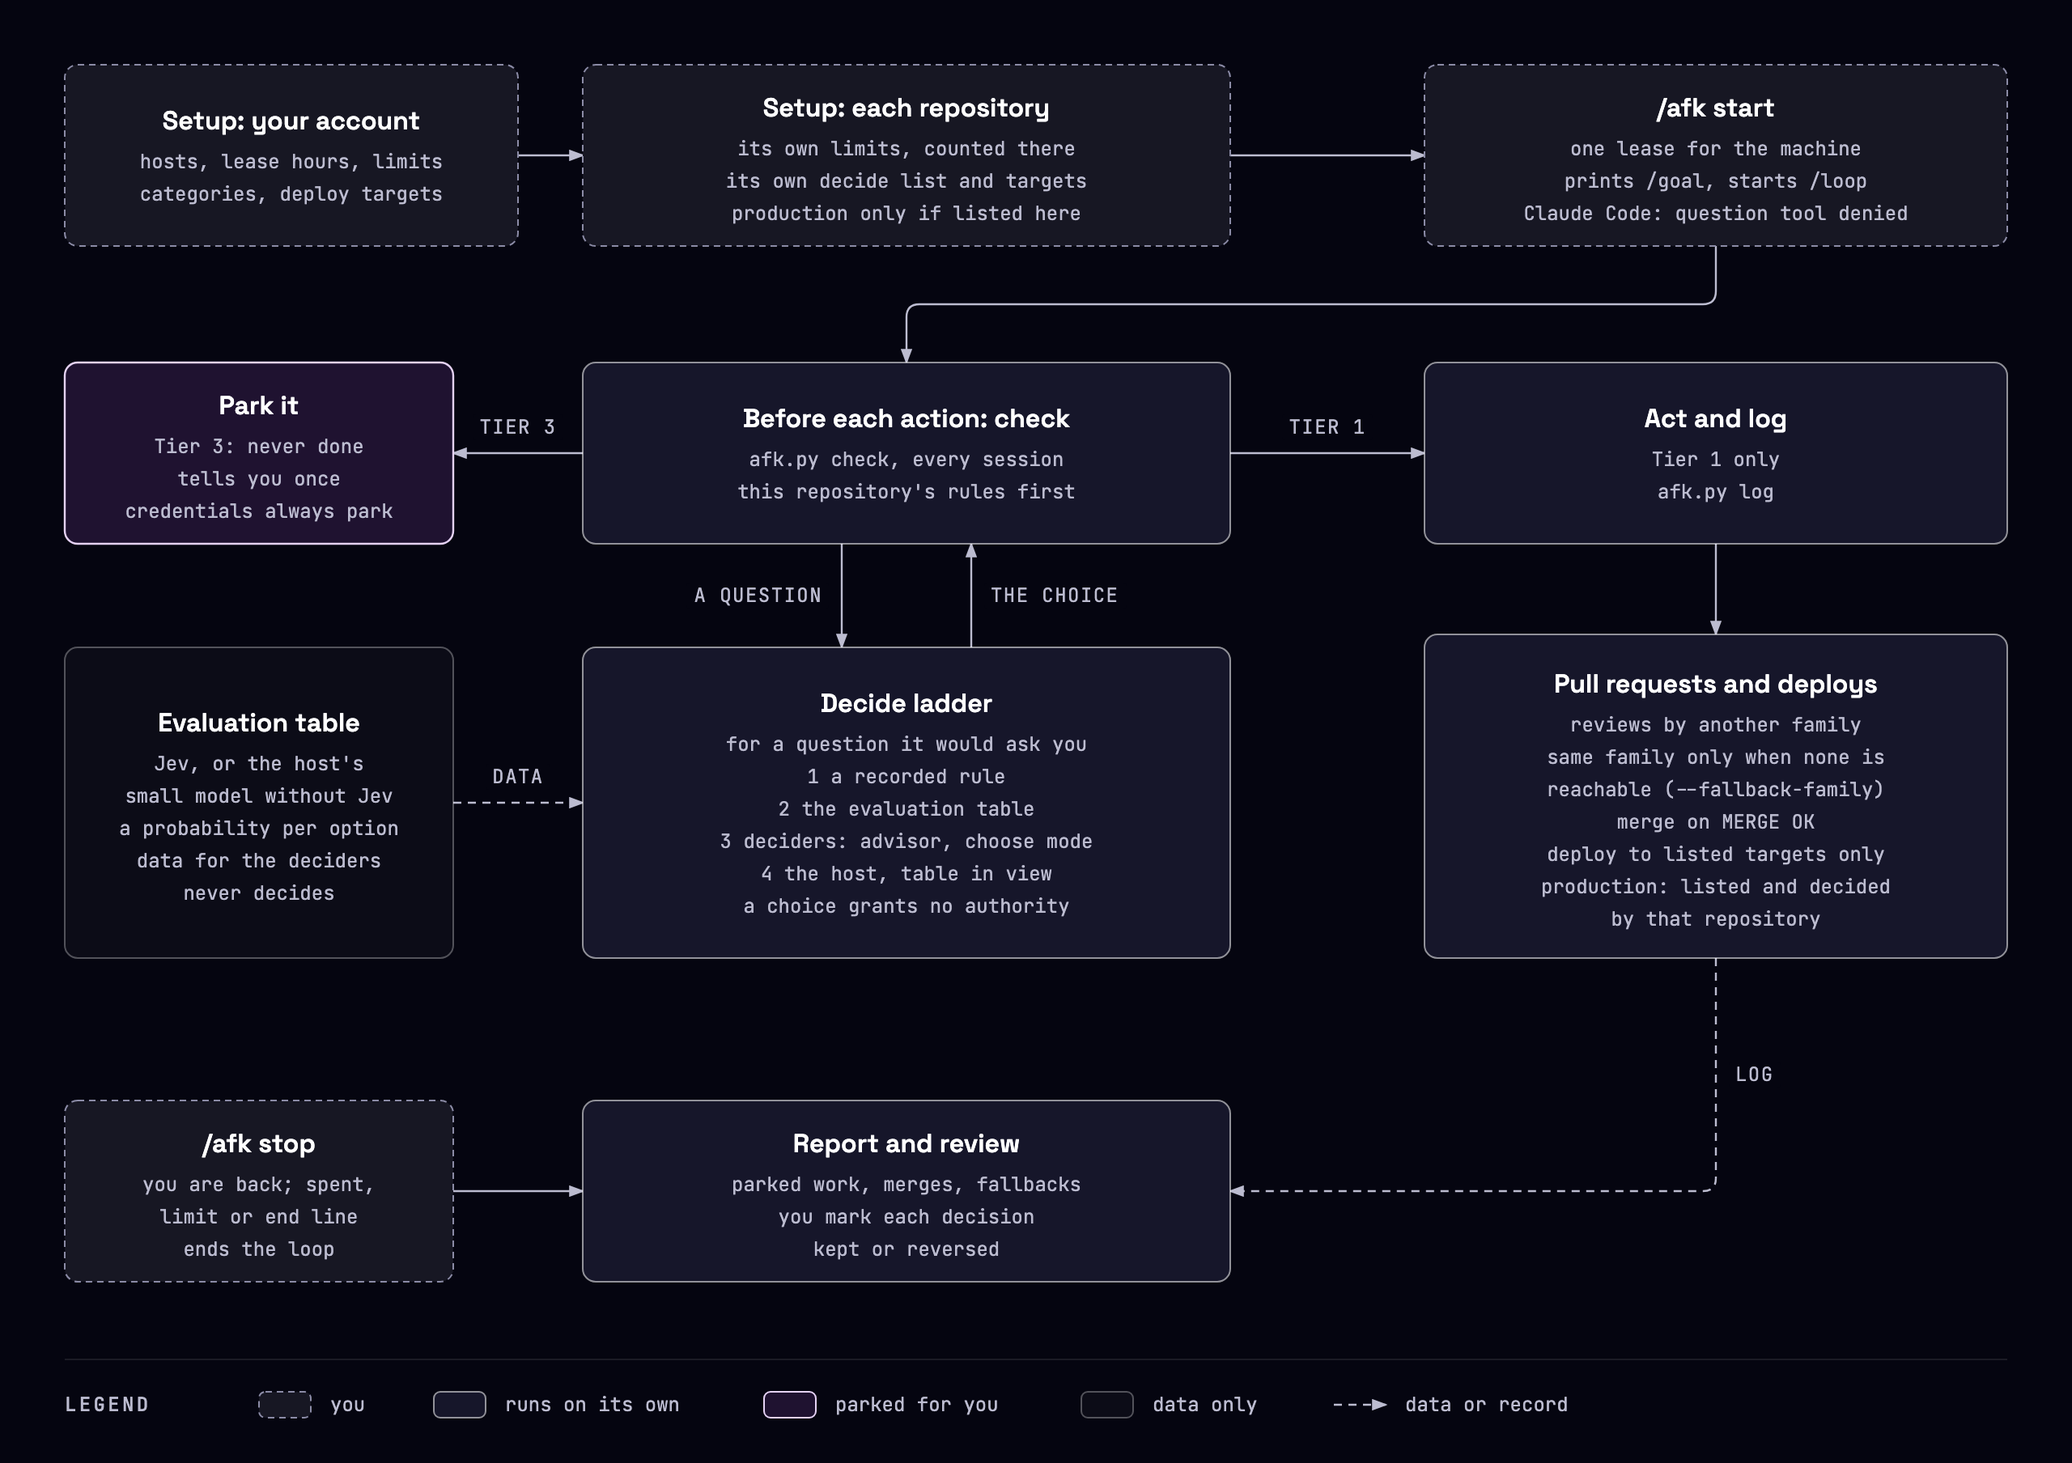
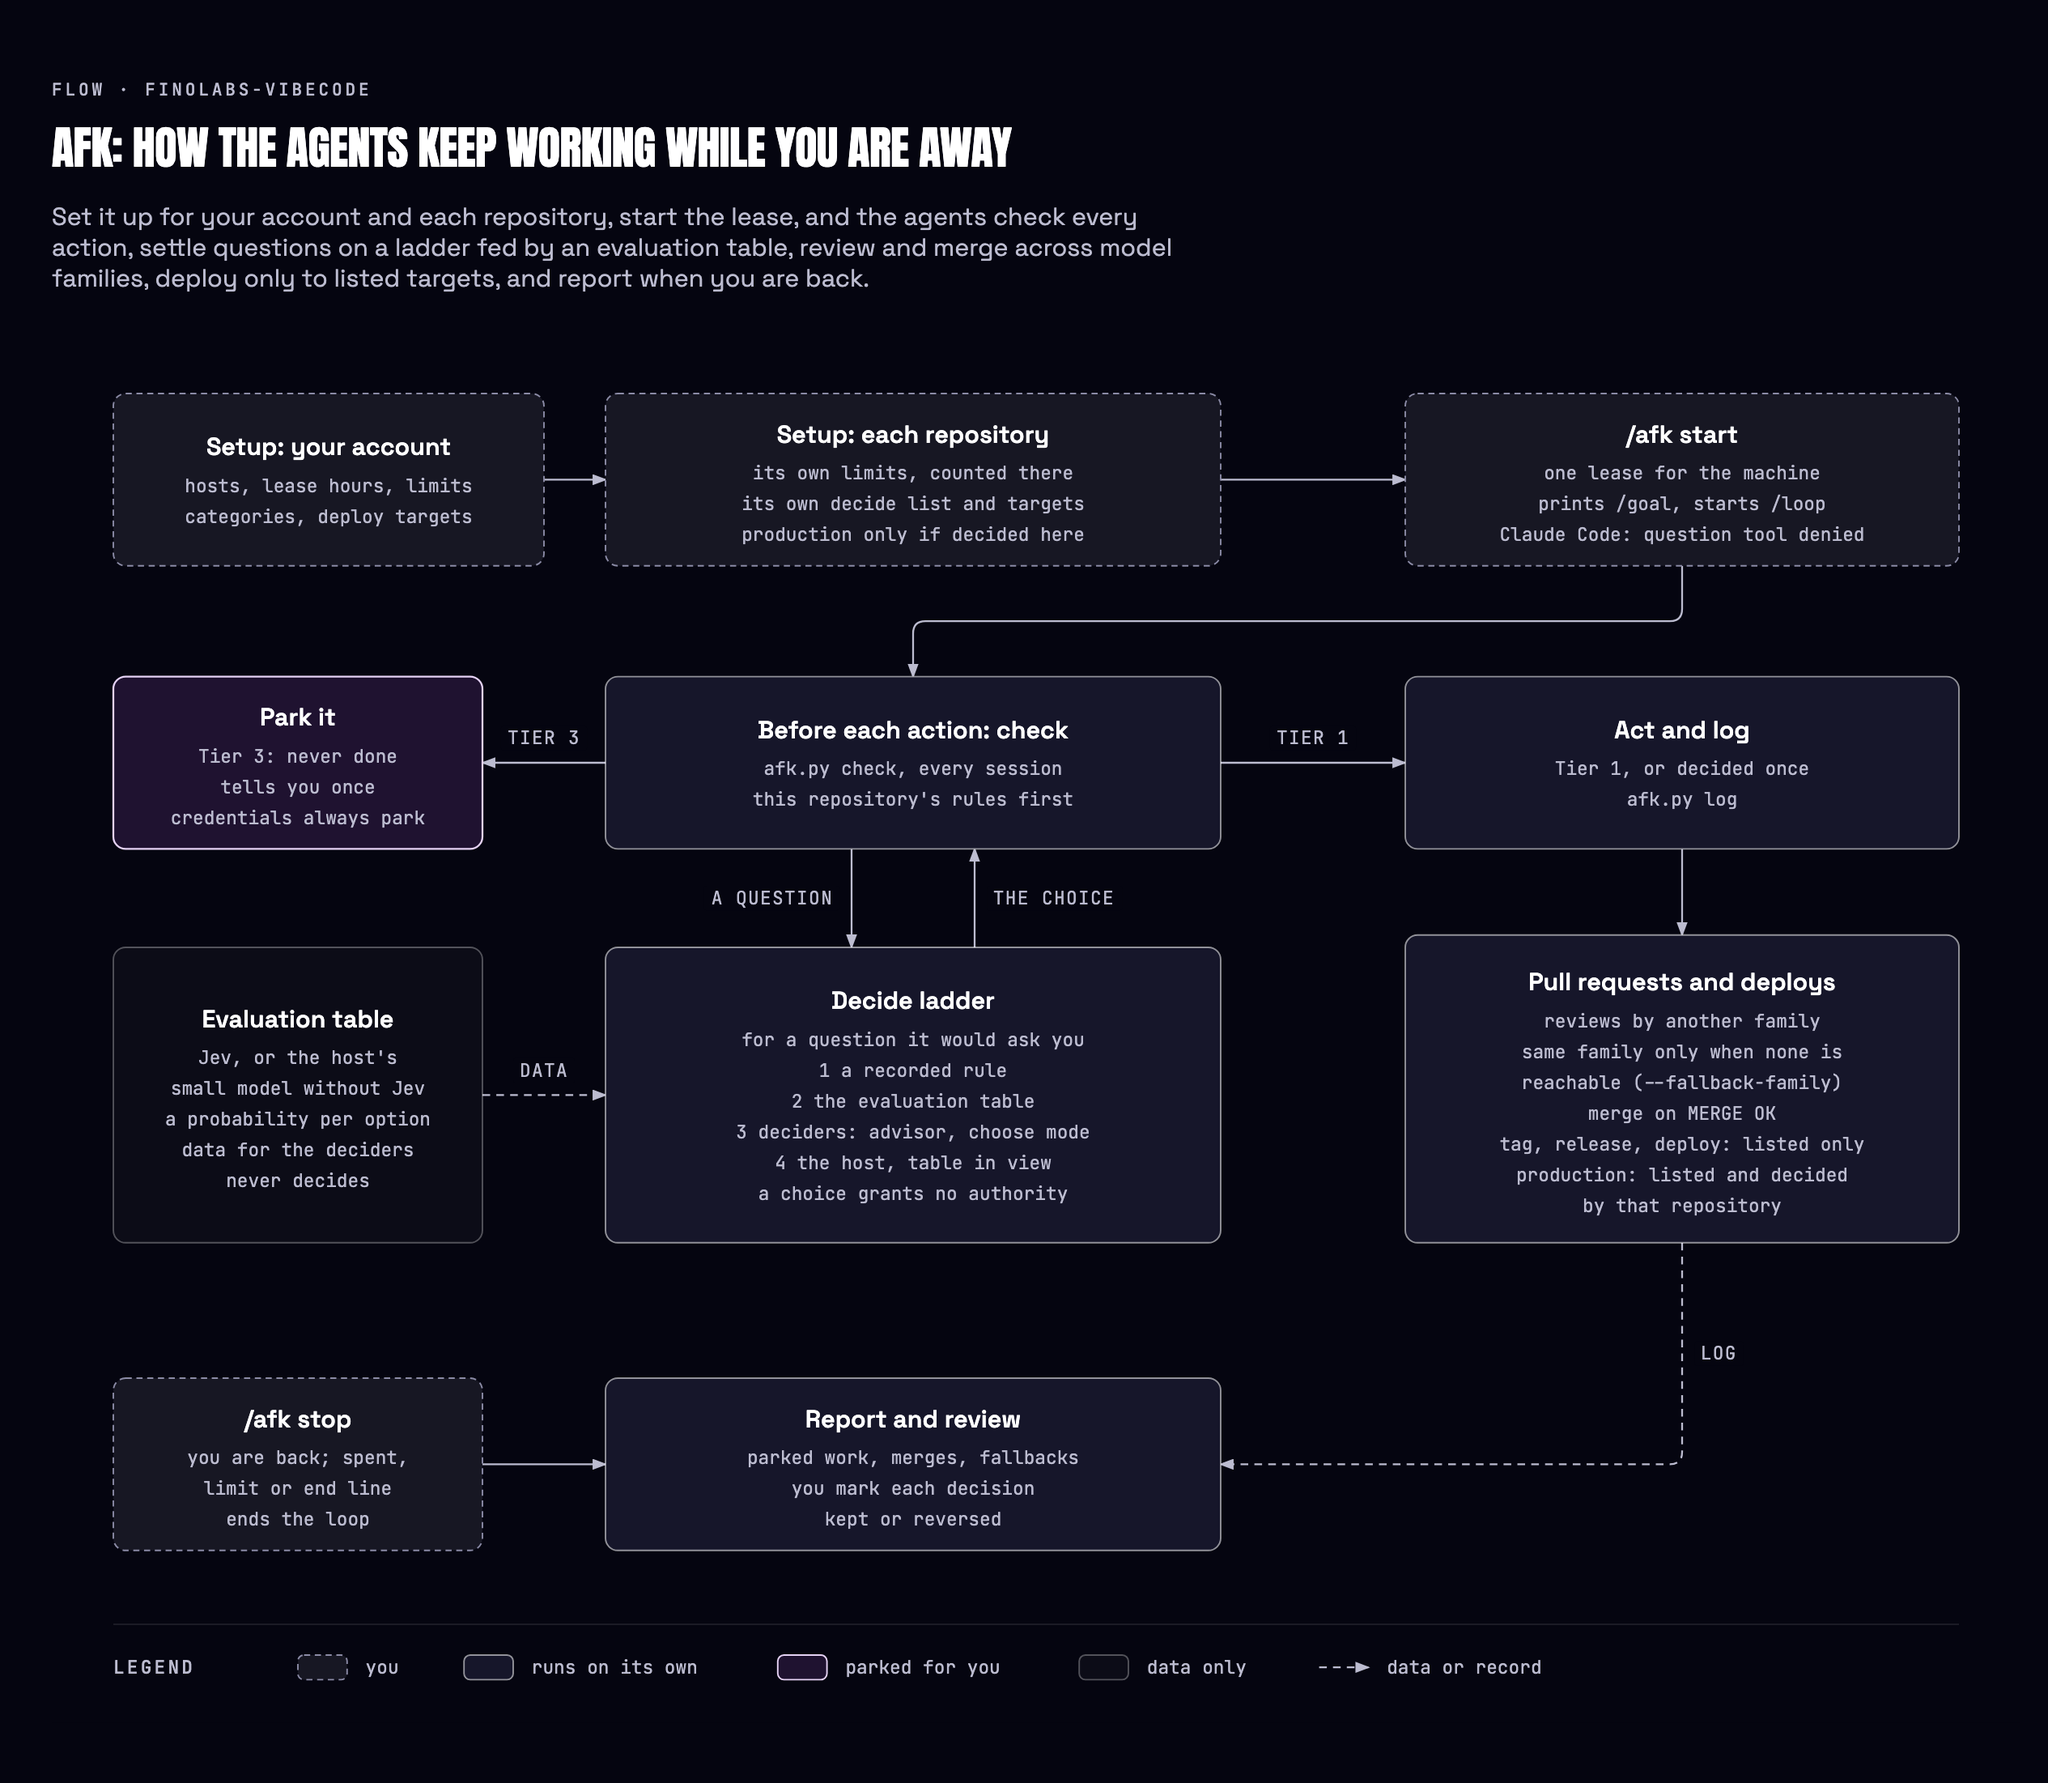
Show the Codex nudge and decided requests in the diagrams and re-render them

diff --git a/docs/diagrams/afk-mechanism-light.html b/docs/diagrams/afk-mechanism-light.html
@@ -17,7 +17,7 @@ svg{width:100%;min-width:900px;display:block}
 <p class="sub">Set it up for your account and each repository, start the lease, and the agents check every action, settle questions on a ladder fed by an evaluation table, review and merge across model families, deploy only to listed targets, and report when you are back.</p>
 <svg viewBox="0 0 1280 904" xmlns="http://www.w3.org/2000/svg" role="img" aria-labelledby="afk-mechanism-light-title afk-mechanism-light-desc">
 <title id="afk-mechanism-light-title">afk: how the agents keep working while you are away</title>
-<desc id="afk-mechanism-light-desc">How afk works end to end. You set it up once for your account and, inside each repository, for that repository: its own limits, counted in that repository only, its own list of what the agents may decide, and its command lists (deploy, release and test commands, editable files), each replacing your account&#x27;s list there, production only where that repository decides production. /afk start opens one lease for the machine. Before each action every session runs afk.py check: Tier 1 runs and is logged, Tier 3 parks and tells you once. A question the agents would ask you goes up the decide ladder: a recorded rule, then the evaluation table (Jev, or the host&#x27;s small model without Jev, giving the probability of each option as data that never decides), then the deciders (an advisor of another family in choose mode), then the host with the table in view; the chosen action goes through check like any other. Pull requests are reviewed by another family, by the author&#x27;s own family only when no other family is reachable, merged on MERGE OK, and tagged, released or deployed only with listed commands. A spent repository, the hourly limit or the end line stops the loop; when you are back you stop the lease, read the report and mark each decision kept or reversed.</desc>
+<desc id="afk-mechanism-light-desc">How afk works end to end. You set it up once for your account and, inside each repository, for that repository: its own limits, counted in that repository only, its own list of what the agents may decide, and its command lists (deploy, release and test commands, editable files), each replacing your account&#x27;s list there, production only where that repository decides production. /afk start opens one lease for the machine. Before each action every session runs afk.py check: Tier 1 runs and is logged, an unknown request of an allowlisted shape goes to the decision ladder and runs once if approved, a merge needs a recorded MERGE OK, Tier 3 parks and tells you once. A question the agents would ask you goes up the decide ladder: a recorded rule, then the evaluation table (Jev, or the host&#x27;s small model without Jev, giving the probability of each option as data that never decides), then the deciders (an advisor of another family in choose mode), then the host with the table in view; the chosen action goes through check like any other. Pull requests are reviewed by another family, by the author&#x27;s own family only when no other family is reachable, merged on MERGE OK, and tagged, released or deployed only with listed commands. A spent repository, the hourly limit or the end line stops the loop; when you are back you stop the lease, read the report and mark each decision kept or reversed.</desc>
 <defs><marker id="afk-mechanism-light-default" markerWidth="8" markerHeight="6" refX="7" refY="3" orient="auto"><polygon points="0 0, 8 3, 0 6" fill="#5B5B79"/></marker><marker id="afk-mechanism-light-accent" markerWidth="8" markerHeight="6" refX="7" refY="3" orient="auto"><polygon points="0 0, 8 3, 0 6" fill="#4B1E73"/></marker><marker id="afk-mechanism-light-link" markerWidth="8" markerHeight="6" refX="7" refY="3" orient="auto"><polygon points="0 0, 8 3, 0 6" fill="#14627A"/></marker></defs>
 <rect width="100%" height="100%" fill="#F7F7FB"/>
 <path d="M320,96 H360" fill="none" stroke="#5B5B79" stroke-width="1.2" marker-end="url(#afk-mechanism-light-default)"/>
@@ -71,7 +71,7 @@ svg{width:100%;min-width:900px;display:block}
 <rect x="880" y="224" width="360" height="112" rx="8" fill="#F7F7FB"/>
 <rect x="880" y="224" width="360" height="112" rx="8" fill="#FFFFFF" stroke="rgba(11,11,23,0.70)" stroke-width="1"/>
 <text x="1060" y="264" fill="#0B0B17" font-size="16" font-weight="600" font-family="'Space Grotesk', system-ui, sans-serif" text-anchor="middle">Act and log</text>
-<text x="1060" y="288" fill="#5B5B79" font-size="12" font-family="'JetBrains Mono', ui-monospace, monospace" text-anchor="middle">Tier 1 only</text>
+<text x="1060" y="288" fill="#5B5B79" font-size="12" font-family="'JetBrains Mono', ui-monospace, monospace" text-anchor="middle">Tier 1, or decided once</text>
 <text x="1060" y="308" fill="#5B5B79" font-size="12" font-family="'JetBrains Mono', ui-monospace, monospace" text-anchor="middle">afk.py log</text>
 </g>
 <g class="node">

diff --git a/docs/diagrams/afk-mechanism-dark.html b/docs/diagrams/afk-mechanism-dark.html
@@ -17,7 +17,7 @@ svg{width:100%;min-width:900px;display:block}
 <p class="sub">Set it up for your account and each repository, start the lease, and the agents check every action, settle questions on a ladder fed by an evaluation table, review and merge across model families, deploy only to listed targets, and report when you are back.</p>
 <svg viewBox="0 0 1280 904" xmlns="http://www.w3.org/2000/svg" role="img" aria-labelledby="afk-mechanism-dark-title afk-mechanism-dark-desc">
 <title id="afk-mechanism-dark-title">afk: how the agents keep working while you are away</title>
-<desc id="afk-mechanism-dark-desc">How afk works end to end. You set it up once for your account and, inside each repository, for that repository: its own limits, counted in that repository only, its own list of what the agents may decide, and its command lists (deploy, release and test commands, editable files), each replacing your account&#x27;s list there, production only where that repository decides production. /afk start opens one lease for the machine. Before each action every session runs afk.py check: Tier 1 runs and is logged, Tier 3 parks and tells you once. A question the agents would ask you goes up the decide ladder: a recorded rule, then the evaluation table (Jev, or the host&#x27;s small model without Jev, giving the probability of each option as data that never decides), then the deciders (an advisor of another family in choose mode), then the host with the table in view; the chosen action goes through check like any other. Pull requests are reviewed by another family, by the author&#x27;s own family only when no other family is reachable, merged on MERGE OK, and tagged, released or deployed only with listed commands. A spent repository, the hourly limit or the end line stops the loop; when you are back you stop the lease, read the report and mark each decision kept or reversed.</desc>
+<desc id="afk-mechanism-dark-desc">How afk works end to end. You set it up once for your account and, inside each repository, for that repository: its own limits, counted in that repository only, its own list of what the agents may decide, and its command lists (deploy, release and test commands, editable files), each replacing your account&#x27;s list there, production only where that repository decides production. /afk start opens one lease for the machine. Before each action every session runs afk.py check: Tier 1 runs and is logged, an unknown request of an allowlisted shape goes to the decision ladder and runs once if approved, a merge needs a recorded MERGE OK, Tier 3 parks and tells you once. A question the agents would ask you goes up the decide ladder: a recorded rule, then the evaluation table (Jev, or the host&#x27;s small model without Jev, giving the probability of each option as data that never decides), then the deciders (an advisor of another family in choose mode), then the host with the table in view; the chosen action goes through check like any other. Pull requests are reviewed by another family, by the author&#x27;s own family only when no other family is reachable, merged on MERGE OK, and tagged, released or deployed only with listed commands. A spent repository, the hourly limit or the end line stops the loop; when you are back you stop the lease, read the report and mark each decision kept or reversed.</desc>
 <defs><marker id="afk-mechanism-dark-default" markerWidth="8" markerHeight="6" refX="7" refY="3" orient="auto"><polygon points="0 0, 8 3, 0 6" fill="#BCBCD0"/></marker><marker id="afk-mechanism-dark-accent" markerWidth="8" markerHeight="6" refX="7" refY="3" orient="auto"><polygon points="0 0, 8 3, 0 6" fill="#E5D2F4"/></marker><marker id="afk-mechanism-dark-link" markerWidth="8" markerHeight="6" refX="7" refY="3" orient="auto"><polygon points="0 0, 8 3, 0 6" fill="#87D3E1"/></marker></defs>
 <rect width="100%" height="100%" fill="#050510"/>
 <path d="M320,96 H360" fill="none" stroke="#BCBCD0" stroke-width="1.2" marker-end="url(#afk-mechanism-dark-default)"/>
@@ -71,7 +71,7 @@ svg{width:100%;min-width:900px;display:block}
 <rect x="880" y="224" width="360" height="112" rx="8" fill="#050510"/>
 <rect x="880" y="224" width="360" height="112" rx="8" fill="#16162A" stroke="rgba(255,255,255,0.55)" stroke-width="1"/>
 <text x="1060" y="264" fill="#FFFFFF" font-size="16" font-weight="600" font-family="'Space Grotesk', system-ui, sans-serif" text-anchor="middle">Act and log</text>
-<text x="1060" y="288" fill="#BCBCD0" font-size="12" font-family="'JetBrains Mono', ui-monospace, monospace" text-anchor="middle">Tier 1 only</text>
+<text x="1060" y="288" fill="#BCBCD0" font-size="12" font-family="'JetBrains Mono', ui-monospace, monospace" text-anchor="middle">Tier 1, or decided once</text>
 <text x="1060" y="308" fill="#BCBCD0" font-size="12" font-family="'JetBrains Mono', ui-monospace, monospace" text-anchor="middle">afk.py log</text>
 </g>
 <g class="node">

diff --git a/docs/diagrams/session-health-dark.html b/docs/diagrams/session-health-dark.html
@@ -77,7 +77,7 @@ svg{width:100%;min-width:900px;display:block}
 <text x="200" y="368" fill="#BCBCD0" font-size="12" font-family="'JetBrains Mono', ui-monospace, monospace" text-anchor="middle">reminds to check the title</text>
 </g>
 <text x="40" y="436" fill="#BCBCD0" font-size="16" font-weight="400" font-family="'Space Grotesk', system-ui, sans-serif" text-anchor="start">Re-injection is declared on Claude Code and Codex; live delivery is unverified. Antigravity keeps the manual handover,</text>
-<text x="40" y="460" fill="#BCBCD0" font-size="16" font-weight="400" font-family="'Space Grotesk', system-ui, sans-serif" text-anchor="start">and the probe does not cover it. On Claude Code a nudge hook asks for tidy at 80% and 90%; the rest is agent judgment.</text>
+<text x="40" y="460" fill="#BCBCD0" font-size="16" font-weight="400" font-family="'Space Grotesk', system-ui, sans-serif" text-anchor="start">and the probe does not cover it. On Claude Code and Codex a nudge hook asks for tidy at 80% and 90%; the rest is agent judgment.</text>
 <line x1="40" y1="496" x2="1240" y2="496" stroke="rgba(255,255,255,0.12)" stroke-width="0.8"/>
 <text x="40" y="528" fill="#BCBCD0" font-size="12" font-weight="500" font-family="'JetBrains Mono', ui-monospace, monospace" letter-spacing="0.14em" text-anchor="start">LEGEND</text>
 <rect x="160" y="516" width="32" height="16" rx="4" fill="#16162A" stroke="rgba(255,255,255,0.55)" stroke-width="1"/>

diff --git a/docs/diagrams/session-health-light.html b/docs/diagrams/session-health-light.html
@@ -77,7 +77,7 @@ svg{width:100%;min-width:900px;display:block}
 <text x="200" y="368" fill="#5B5B79" font-size="12" font-family="'JetBrains Mono', ui-monospace, monospace" text-anchor="middle">reminds to check the title</text>
 </g>
 <text x="40" y="436" fill="#5B5B79" font-size="16" font-weight="400" font-family="'Space Grotesk', system-ui, sans-serif" text-anchor="start">Re-injection is declared on Claude Code and Codex; live delivery is unverified. Antigravity keeps the manual handover,</text>
-<text x="40" y="460" fill="#5B5B79" font-size="16" font-weight="400" font-family="'Space Grotesk', system-ui, sans-serif" text-anchor="start">and the probe does not cover it. On Claude Code a nudge hook asks for tidy at 80% and 90%; the rest is agent judgment.</text>
+<text x="40" y="460" fill="#5B5B79" font-size="16" font-weight="400" font-family="'Space Grotesk', system-ui, sans-serif" text-anchor="start">and the probe does not cover it. On Claude Code and Codex a nudge hook asks for tidy at 80% and 90%; the rest is agent judgment.</text>
 <line x1="40" y1="496" x2="1240" y2="496" stroke="rgba(11,11,23,0.12)" stroke-width="0.8"/>
 <text x="40" y="528" fill="#5B5B79" font-size="12" font-weight="500" font-family="'JetBrains Mono', ui-monospace, monospace" letter-spacing="0.14em" text-anchor="start">LEGEND</text>
 <rect x="160" y="516" width="32" height="16" rx="4" fill="#FFFFFF" stroke="rgba(11,11,23,0.70)" stroke-width="1"/>
